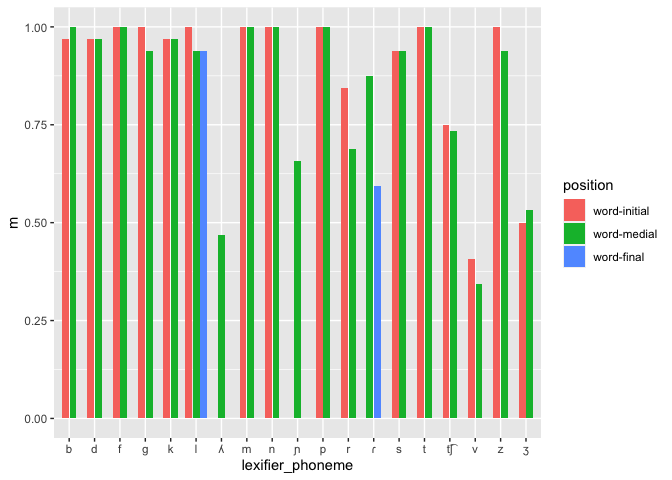
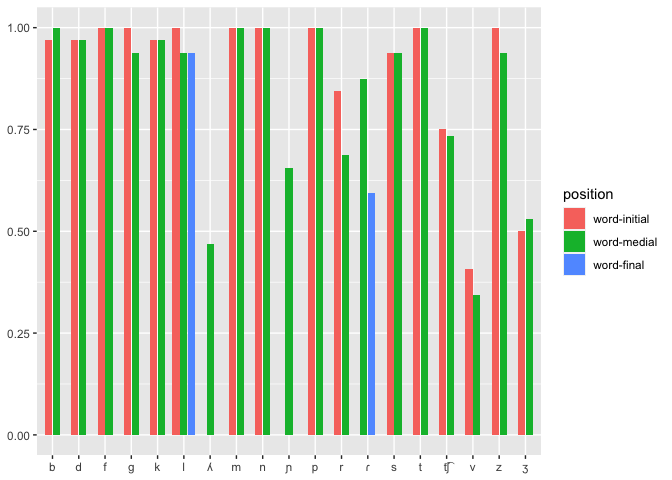
towards issue 3

diff --git a/README.md b/README.md
@@ -74,7 +74,9 @@ final_results_region <- cbind(final_results, region)
 
 ggplot(final_results_region) + 
   geom_bar(aes(x = m, y = reorder(language, m), fill = region), 
-           stat = "identity", show.legend = FALSE)
+           stat = "identity", show.legend = FALSE) +
+  theme(axis.title.x = element_blank(),
+        axis.title.y = element_blank())
 ```
 
 ![](README_files/figure-gfm/unnamed-chunk-6-1.png)<!-- -->
@@ -88,9 +90,7 @@ First we prepare the data.
 
 ``` r
 data_by_phoneme <- database %>% select(lexifier_phoneme, place_stability, manner_stability)
-
 data_by_phoneme$place_stability = as.numeric(data_by_phoneme$place_stability)
-
 data_by_phoneme$manner_stability = as.numeric(data_by_phoneme$manner_stability)
 ```
 
@@ -103,7 +103,7 @@ manner_results <- data_by_phoneme %>% group_by(lexifier_phoneme) %>% summarize(m
 
 consonant_stability <- left_join(place_results, manner_results, by = "lexifier_phoneme")
 
-class <- c("nasal", "rothic", "lateral", "fric", "stop", "stop", "fric", "stop", "stop", "lateral", "nasal", "nasal", "stop", "rothic", "fric", "stop", "affricate", "fric", "fric")
+class <- c("nasal", "rhotic", "lateral", "fricative", "stop", "stop", "fricative", "stop", "stop", "lateral", "nasal", "nasal", "stop", "rhotic", "fricative", "stop", "affricate", "fricative", "fricative")
 
 consonant_stability_class <- cbind(consonant_stability, class)
 ```
@@ -111,8 +111,12 @@ consonant_stability_class <- cbind(consonant_stability, class)
 Next, we plot the results.
 
 ``` r
-ggplot(consonant_stability, aes(y=mmanner, x=mplace, label = lexifier_phoneme, color=class)) + 
-  geom_point(position= "dodge") + geom_text(aes(label=lexifier_phoneme), hjust=3, vjust=0)
+# TODO: fix the class "dots"
+ggplot(consonant_stability, aes(y = mmanner, x = mplace, label = lexifier_phoneme, color=class)) +
+  geom_point(position= "dodge") + 
+  geom_text(aes(label=lexifier_phoneme), hjust=3, vjust=0) +
+  theme(axis.title.x = element_blank(),
+        axis.title.y = element_blank())
 ```
 
     ## Warning: Width not defined. Set with `position_dodge(width = ?)`
@@ -122,9 +126,12 @@ ggplot(consonant_stability, aes(y=mmanner, x=mplace, label = lexifier_phoneme, c
 Here is an alternative view for the global results.
 
 ``` r
+# TODO: add x-axis text, legend text, change color?
 consonant_global_stability <- mutate(consonant_stability_class, mglobal = (mmanner + mplace)/2)
 
-ggplot(consonant_global_stability) + geom_bar(aes(x = mglobal, y = reorder(lexifier_phoneme, mglobal), fill = class), stat = "identity", show.legend = TRUE)
+ggplot(consonant_global_stability) + geom_bar(aes(x = mglobal, y = reorder(lexifier_phoneme, mglobal), fill = class), stat = "identity", show.legend = TRUE) +
+  theme(axis.title.x = element_blank(),
+        axis.title.y = element_blank())
 ```
 
 ![](README_files/figure-gfm/unnamed-chunk-10-1.png)<!-- -->
@@ -157,10 +164,13 @@ position_results <- position_stability %>% group_by(position, lexifier_phoneme) 
 And plot the results for all segments.
 
 ``` r
+# TODO: flip horizontally, change colors
 position_results$position <- factor(position_results$position, levels = c('word-initial', 'word-medial', 'word-final'))
 
 ggplot(position_results, aes(x= lexifier_phoneme, y=m, fill=position)) + 
-  geom_col(position = position_dodge2(width= 0.9, preserve = "single"))
+  geom_col(position = position_dodge2(width= 0.9, preserve = "single")) +
+  theme(axis.title.x = element_blank(),
+        axis.title.y = element_blank())
 ```
 
 ![](README_files/figure-gfm/unnamed-chunk-13-1.png)<!-- -->
@@ -168,6 +178,7 @@ ggplot(position_results, aes(x= lexifier_phoneme, y=m, fill=position)) +
 Plot the results for segments that show differences.
 
 ``` r
+# TODO: update what we show, flip horizontally, change colors
 position_results1 <- position_results %>% pivot_wider(names_from = position, values_from = m)
 
 different_position <- subset(position_results1, position_results1$`word-initial` != position_results1$`word-medial` | position_results1$`word-final` != position_results1$`word-medial`)
